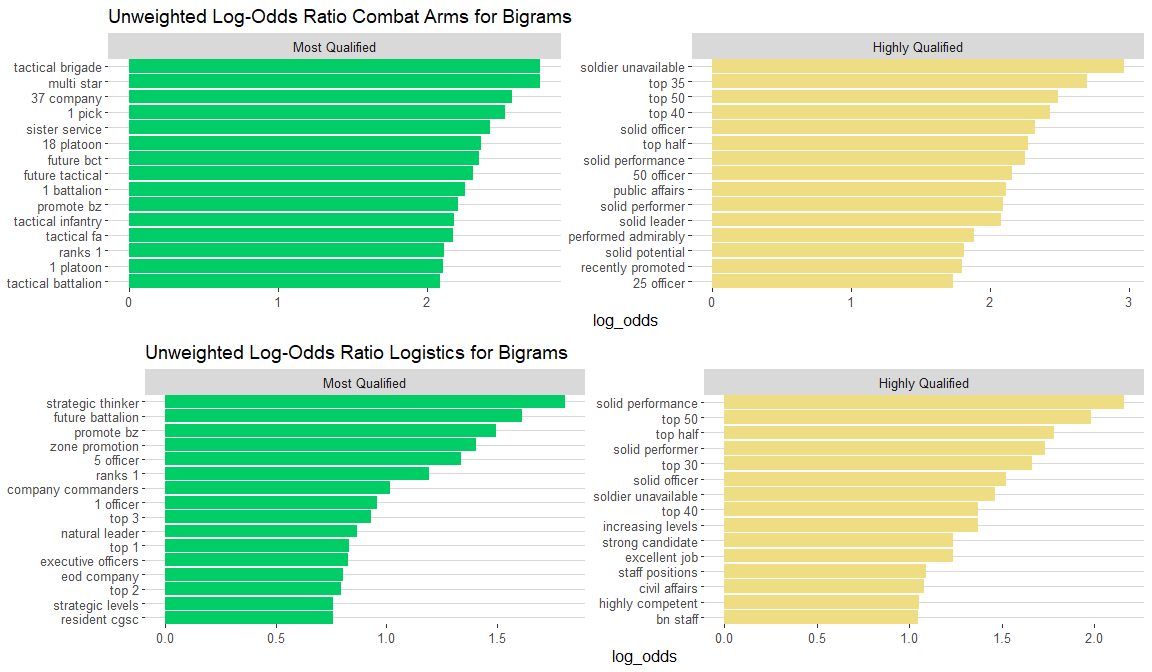
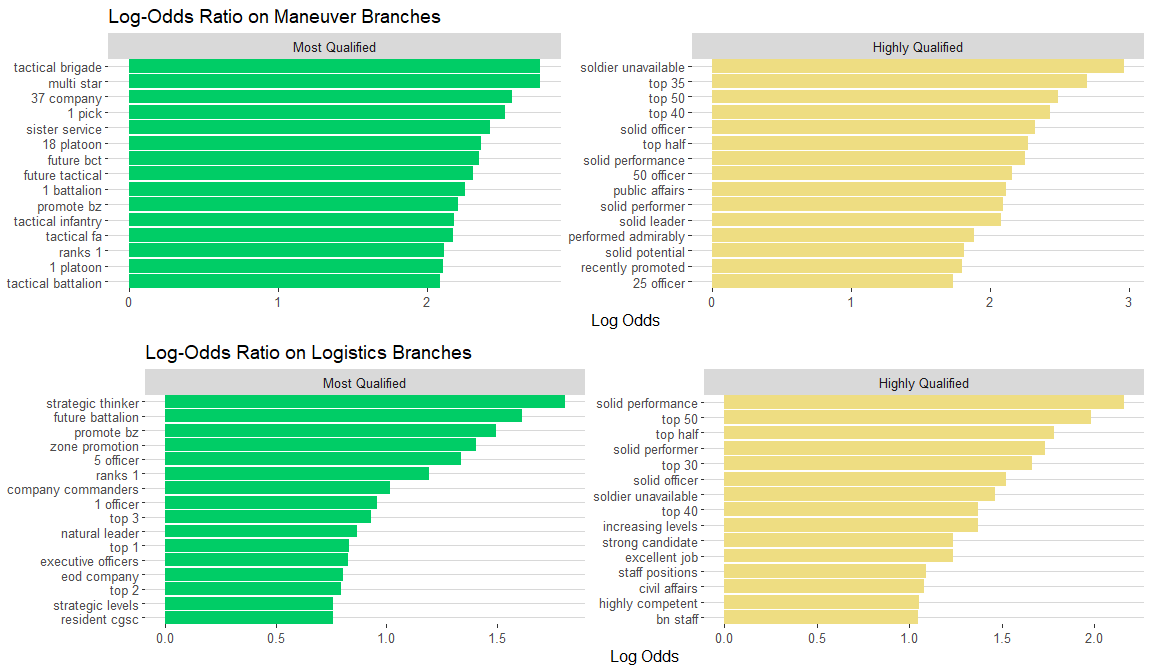
fixed plots

diff --git a/LDA_Analysis.md b/LDA_Analysis.md
@@ -241,7 +241,7 @@ LDA Using Bigrams in MQ and HQ Narratives
 -----------------------------------------
 
 ``` r
-bigram_senior = oers1 %>% unnest_tokens(bigram, srNarrative, token = "ngrams", n=2)
+bigram_senior <- oers1 %>% unnest_tokens(bigram, srNarrative, token = "ngrams", n=2)
 bigram_separated <- bigram_senior %>% separate(bigram, c("word1", "word2"), sep = " ")
 bigram_separated <- bigram_separated[!grepl(".*xx.*", bigram_separated$word1),] 
 bigram_separated <- bigram_separated[!grepl(".*xx.*", bigram_separated$word2),]
@@ -260,8 +260,9 @@ bigram_filter <- bigram_separated %>%
 Create a document term matrix, filterd to keep only top qualified OERs.
 
 ``` r
-top_qualified = c("Most Qualified", "Highly Qualified")
+top_qualified <- c("Most Qualified", "Highly Qualified")
 tidy_bigrams <- bigram_filter %>% 
+  filter(branch %in% combat_arms) %>% 
   unite(bigram, word1, word2, sep = " ") %>% 
   count(srLabel, bigram, sort = TRUE)
 tidy_bigrams$srLabel <- as.character(tidy_bigrams$srLabel)
@@ -276,17 +277,49 @@ We want to look at `beta` once again, which is the probability that the bigram i
 ``` r
 oer_bigram_topics <- tidy(bigram_lda, matrix = "beta")
 
+topic.labs <- c("Topic 1", "Topic 2")
+names(topic.labs) <- c("1", "2")
+
 oer_bigram_topics %>% group_by(topic) %>% top_n(10, beta) %>% 
   ungroup() %>% arrange(topic, - beta) %>% 
   mutate(term = reorder_within(term, beta, topic)) %>% 
   ggplot(aes(term, beta, fill = factor(topic))) +
   geom_col(show.legend = FALSE) +
-  facet_wrap(~topic, scales = "free") +
+  facet_wrap(~topic, labeller = labeller(topic = topic.labs), scales = "free") +
+  theme_hc() +
   coord_flip() +
-  scale_x_reordered()
+  scale_x_reordered() +
+  labs(x = NULL, y = "beta")
 ```
 
 ![](LDA_Analysis_files/figure-markdown_github/unnamed-chunk-15-1.png)
+
+``` r
+beta_spread <- oer_bigram_topics %>% mutate(topic = paste0("topic", topic)) %>% 
+  spread(topic, beta) %>% 
+  filter(topic1 > 0.001 | topic2 >0.001) %>% 
+  mutate(log_ratio = log2(topic2 / topic1))
+
+beta_spread_ordered <- beta_spread %>% mutate(abs = abs(log_ratio)) %>% 
+  arrange(desc(abs)) %>% top_n(20) %>% arrange((log_ratio)) %>% 
+  mutate(order = row_number())
+
+beta_spread_ordered %>% ggplot(aes(order, log_ratio)) +
+  geom_bar(stat = 'identity', show.legend = FALSE, fill = "cadetblue3") +
+  theme_hc() +
+  coord_flip() +
+  scale_x_reordered() +
+  labs(x = NULL, y = "Log2 Ratio of Beta in Topic 2/Topic1") +
+  scale_colour_hc()+
+  scale_fill_hc() +
+  scale_x_continuous(
+    breaks = beta_spread_ordered$order,
+    labels = paste0(beta_spread_ordered$term),
+    expand = c(0,0)
+  )
+```
+
+![](LDA_Analysis_files/figure-markdown_github/unnamed-chunk-16-1.png)
 
 LDA by Narrative Using Bigrams
 ------------------------------
@@ -371,7 +404,7 @@ Get a count of total number of MQ and HQ narratives falling in either topic 1 or
 
 ``` r
 narrative_bigram_topics <- narrative_bigram_classifications %>% count(label, topic) %>% 
-  group_by(label) %>% top_n(1, n) %>% 
+  group_by(label) %>% arrange(n) %>% top_n(1, n) %>% 
   ungroup() %>% 
   transmute(consensus = label, topic) #used to determine which topic represents which classification
 narrative_bigram_topics
@@ -380,8 +413,8 @@ narrative_bigram_topics
     ## # A tibble: 2 x 2
     ##   consensus        topic
     ##   <chr>            <int>
-    ## 1 Highly Qualified     1
-    ## 2 Most Qualified       2
+    ## 1 Most Qualified       2
+    ## 2 Highly Qualified     1
 
 See how well we were able to cluster topics by checking the classifications.
 
@@ -401,7 +434,7 @@ incorrect
     ## 1 Highly Qualified Most Qualified    5758
     ## 2 Most Qualified   Highly Qualified  4275
 
-The model incorrecty put 5758 HQ narratives into MQ bin, put 4275 MQ narratives into HQ bin
+The model incorrecty put 5993 HQ narratives into MQ bin, put 4584 MQ narratives into HQ bin
 
 ``` r
 correct <- check_classifications %>% filter(label == consensus) %>% count(label, consensus)
@@ -414,7 +447,7 @@ correct
     ## 1 Highly Qualified Highly Qualified  5993
     ## 2 Most Qualified   Most Qualified    4584
 
-The model correctly put 5993 HQ into the HQ bin and 4584 MQ into the MQ bin.
+The model correctly put 5758 HQ into the HQ bin and 4275 MQ into the MQ bin.
 
 Now we can build a confusion matrix and analyze how well the model performed.
 
@@ -452,9 +485,11 @@ confusionMatrix(check_classifications$consensus, check_classifications$label)
 
 Model had a 51% accuracy, and a 51% sensitivity, and a 51% specificity.
 
+Plot shows a breakdown of how the model predicted as either being MQ or HQ.
+
 ``` r
 grid.arrange(
-correct %>% mutate(srLabel = "srLabel") %>% 
+check_classifications %>% count(label) %>% mutate(srLabel = "Actual Distribution") %>% 
   mutate(pct = n/sum(n)) %>% 
   ggplot(aes(x = srLabel, y= pct, fill = label)) +
   geom_bar(stat = "identity", show.legend = FALSE) +
@@ -464,25 +499,27 @@ correct %>% mutate(srLabel = "srLabel") %>%
   scale_colour_hc()+
   scale_fill_hc()+
   #xlab("Predicted")+
-  ylab("Actual Percentage")+
-  labs(x = NULL, fill = "")+
+  #ylab("Percentage")+
+  labs(x = NULL, y = NULL, fill = "")+
   #ggtitle("Distribution of OERS in 2017") + 
   scale_y_continuous(labels=percent) +
   scale_fill_manual(values=c("Most Qualified"="springgreen3", "Highly Qualified"="lightgoldenrod")) +
   coord_flip(),
 
-incorrect %>% mutate(srLabel = "srLabel") %>% 
+check_classifications %>% count(consensus) %>% mutate(srLabel = "Model Prediction") %>% 
   mutate(pct = n/sum(n)) %>% 
   ggplot(aes(x = srLabel, y= pct, fill = consensus)) +
   geom_bar(stat = "identity") +
-  geom_text_repel(aes(label = scales::percent(pct)), position = "stack",
+  geom_text_repel(aes(label = scales::percent(pct, accuracy = 0.1)), position = "stack",
                   size = 4.25, hjust = 1.25, vjust = 1) +
+  #geom_text_repel(aes(label = paste(as.character(signif(100*pct, 3))) + "%"), position = "stack",
+                  #size = 4.25, hjust = 1.25, vjust = 1) +
   theme_hc() +
   scale_colour_hc()+
   scale_fill_hc()+
   #xlab("Predicted")+
-  ylab("Percentage Predicted")+
-  labs(x = NULL, fill = "")+
+  #ylab("Percentage Predicted")+
+  labs(x = NULL, y = NULL, fill = "")+
   #ggtitle("Distribution of OERS in 2017") + 
   scale_y_continuous(labels=percent) +
   scale_fill_manual(values=c("Most Qualified"="springgreen3", "Highly Qualified"="lightgoldenrod")) +
@@ -490,7 +527,7 @@ incorrect %>% mutate(srLabel = "srLabel") %>%
 nrow = 2)
 ```
 
-![](LDA_Analysis_files/figure-markdown_github/unnamed-chunk-23-1.png)
+![](LDA_Analysis_files/figure-markdown_github/unnamed-chunk-24-1.png)
 
 See how well we were able to cluster, based on individual words
 
@@ -581,4 +618,4 @@ grid.arrange(
   ncol = 2)
 ```
 
-![](LDA_Analysis_files/figure-markdown_github/unnamed-chunk-25-1.png)
+![](LDA_Analysis_files/figure-markdown_github/unnamed-chunk-26-1.png)

diff --git a/OER_Plots.md b/OER_Plots.md
@@ -16,7 +16,7 @@ ggplot(data = oers1_pect, mapping = aes(x = reorder(branch, -count), y = count, 
   theme_minimal()+
   scale_fill_manual(values=c("Most Qualified"="springgreen3", 
                              "Highly Qualified"="lightgoldenrod", 
-                             "Qualified"="orangered1", "Not Qualified"="firebrick"))
+                             "Qualified"="orangered1", "Not Qualified"="black"))
 ```
 
 ![](OER_Plots_files/figure-markdown_github/unnamed-chunk-3-1.png)
@@ -42,7 +42,7 @@ ggplot(data = oers1c,mapping = aes(x = year, y= pct,fill = srLabel))+
   scale_y_continuous(labels=percent) +
   scale_fill_manual(values=c("Most Qualified"="springgreen3", 
                              "Highly Qualified"="lightgoldenrod", 
-                             "Qualified"="orangered1", "Not Qualified"="firebrick")) +
+                             "Qualified"="orangered1", "Not Qualified"="black")) +
   coord_flip()
 ```
 
@@ -65,7 +65,7 @@ ggplot(data = oers1b,mapping = aes(x = branch, y= pct,fill = srLabel))+
   scale_y_continuous(labels=percent)+
   scale_fill_manual(values=c("Most Qualified"="springgreen3", 
                              "Highly Qualified"="lightgoldenrod", 
-                             "Qualified"="orangered1", "Not Qualified"="firebrick"))
+                             "Qualified"="orangered1", "Not Qualified"="black"))
 ```
 
 ![](OER_Plots_files/figure-markdown_github/unnamed-chunk-7-1.png)
@@ -103,7 +103,7 @@ Log Odds (By Hand, Unweighted)
 ``` r
 unweighted_log_odds_plot <- ggplot(unweighted_log_odds_ordered, aes(order, logoddsratio, fill = branch)) +
   geom_bar(stat = 'identity', show.legend = FALSE) +
-  labs(x = NULL, y = "log_odds") +
+  labs(x = NULL, y = "Log Odds Ratio") +
   facet_wrap(~branch, ncol = 3, scales = "free") +
   theme_hc() +
   coord_flip()+
@@ -114,7 +114,7 @@ unweighted_log_odds_plot <- ggplot(unweighted_log_odds_ordered, aes(order, logod
     labels = paste0(unweighted_log_odds_ordered$srNarrativeWords),
     expand = c(0,0)
   ) +
-  ggtitle("Unweighted Log-Odds Ratio By Branch")
+  ggtitle("Log-Odds Ratio By Branch")
 
 unweighted_log_odds_plot
 ```
@@ -155,7 +155,7 @@ unweighted_log_odds_bigrams_ordered_plot_combat <-
   unweighted_log_odds_bigrams_ordered_combat %>% 
   ggplot(aes(order, logoddsratio, fill = srLabel)) +
   geom_bar(stat = 'identity', show.legend = FALSE) +
-  labs(x = NULL, y = "log_odds") +
+  labs(x = NULL, y = "Log Odds") +
   facet_wrap(~srLabel, ncol = 2, scales = "free") +
   theme_hc() +
   coord_flip()+
@@ -167,13 +167,13 @@ unweighted_log_odds_bigrams_ordered_plot_combat <-
   ) +
   scale_fill_manual(values=c("Most Qualified"="springgreen3", 
                              "Highly Qualified"="lightgoldenrod")) +
-  ggtitle("Unweighted Log-Odds Ratio Combat Arms for Bigrams")
+  ggtitle("Log-Odds Ratio on Maneuver Branches")
 
 unweighted_log_odds_bigrams_ordered_plot_logistics <- 
   unweighted_log_odds_bigrams_ordered_logistics %>% 
   ggplot(aes(order, logoddsratio, fill = srLabel)) +
   geom_bar(stat = 'identity', show.legend = FALSE) +
-  labs(x = NULL, y = "log_odds") +
+  labs(x = NULL, y = "Log Odds") +
   facet_wrap(~srLabel, ncol = 2, scales = "free") +
   theme_hc() +
   coord_flip()+
@@ -185,7 +185,7 @@ unweighted_log_odds_bigrams_ordered_plot_logistics <-
   ) +
   scale_fill_manual(values=c("Most Qualified"="springgreen3", 
                              "Highly Qualified"="lightgoldenrod")) +
-  ggtitle("Unweighted Log-Odds Ratio Logistics for Bigrams")
+  ggtitle("Log-Odds Ratio on Logistics Branches")
 ```
 
 ``` r
@@ -210,7 +210,7 @@ Percentage of Occurrences
 -------------------------
 
 ``` r
-grid.arrange(combat_mq_bigram_plot, combat_hq_bigram_plot, logistics_mq_bigram_plot, logistics_hq_bigram_plot, ncol = 2)
+grid.arrange(combat_mq_bigram_plot, combat_hq_bigram_plot, logistics_mq_bigram_plot, logistics_hq_bigram_plot, nrow = 1)
 ```
 
 ![](OER_Plots_files/figure-markdown_github/unnamed-chunk-21-1.png)
@@ -260,6 +260,7 @@ par(mfrow=c(1, 2))
 clp_mq_maneuver <- cluster_optimal(bigram_graph_maneuver_mq)
 V(bigram_graph_maneuver_mq)$community <- clp_mq_maneuver$membership
 E(bigram_graph_maneuver_mq)$width <- E(bigram_graph_maneuver_mq)$n/300
+#V(bigram_graph_maneuver_mq)$size <- V(bigram_graph_maneuver_mq)$n
 
 mq_clusters_maneuver <- plot(bigram_graph_maneuver_mq, layout = layout_with_fr,
                              edge.arrow.size = 0.2,
